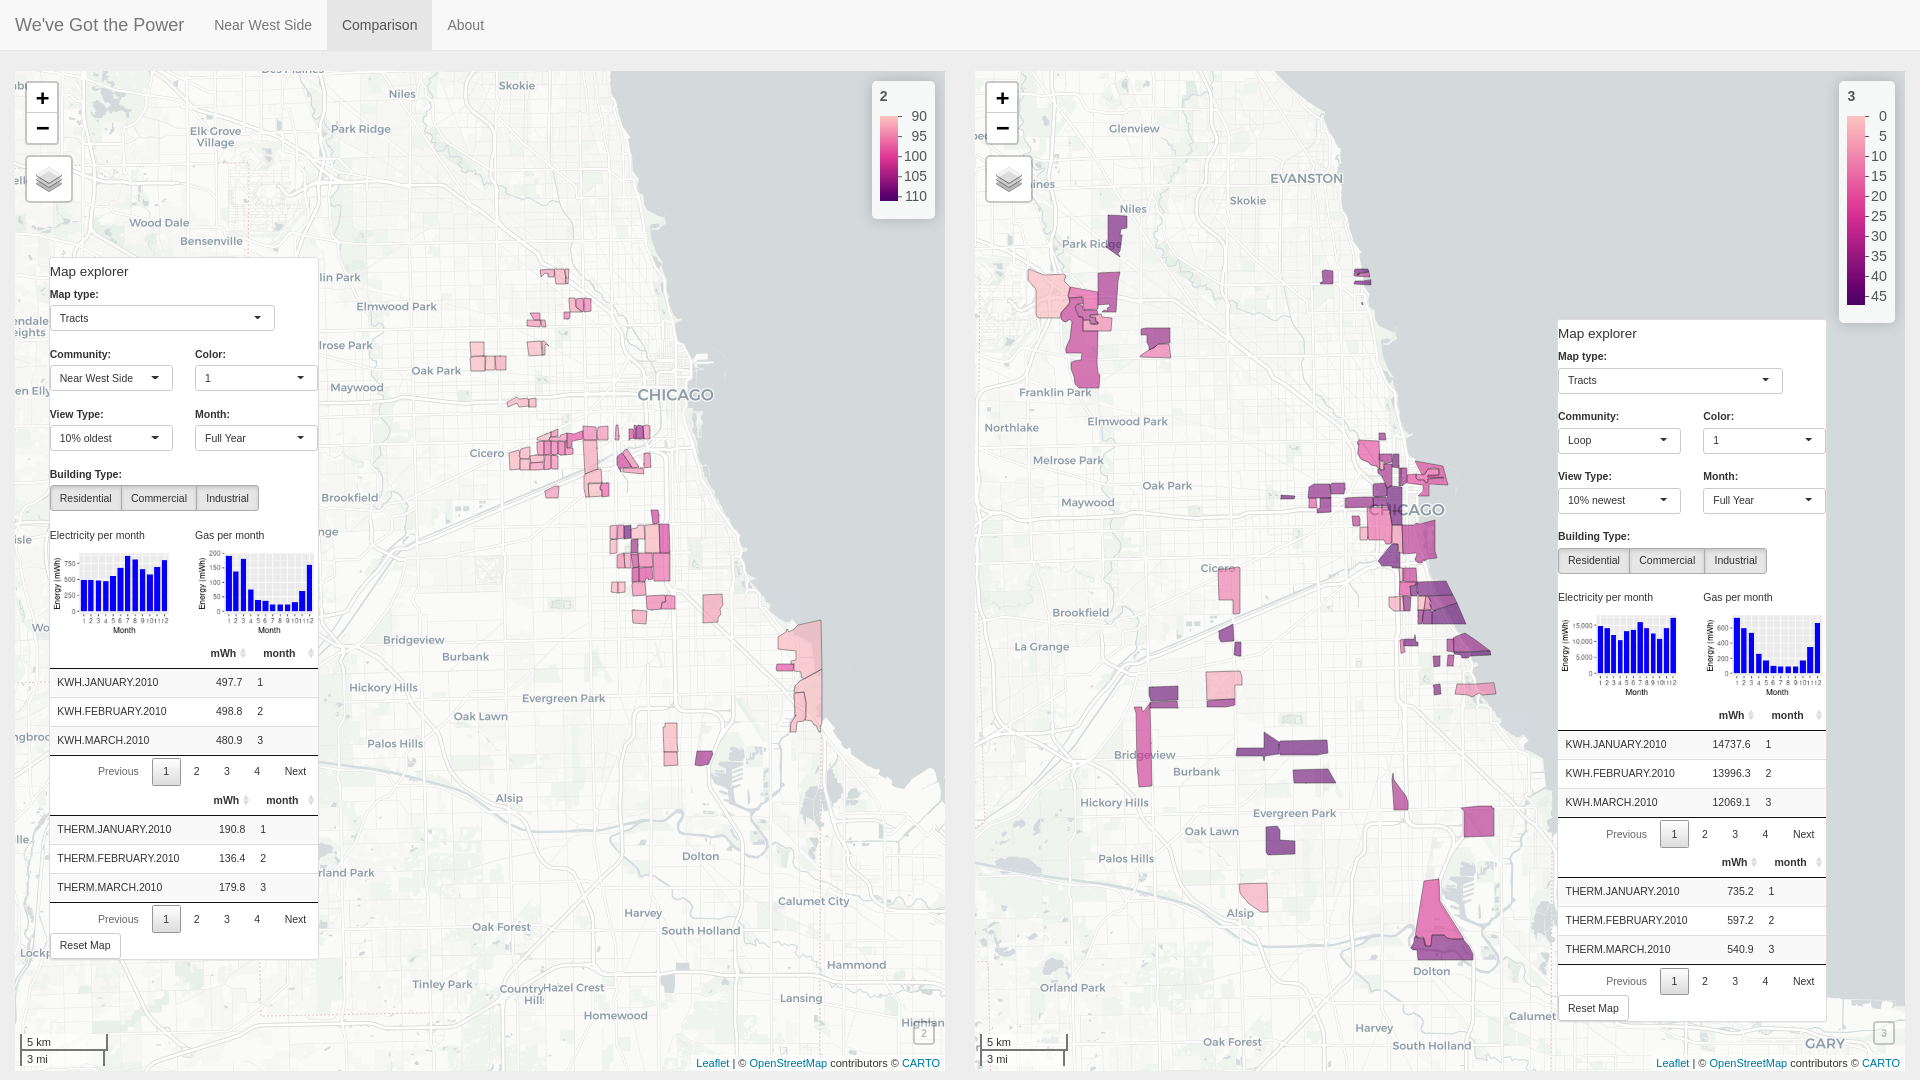
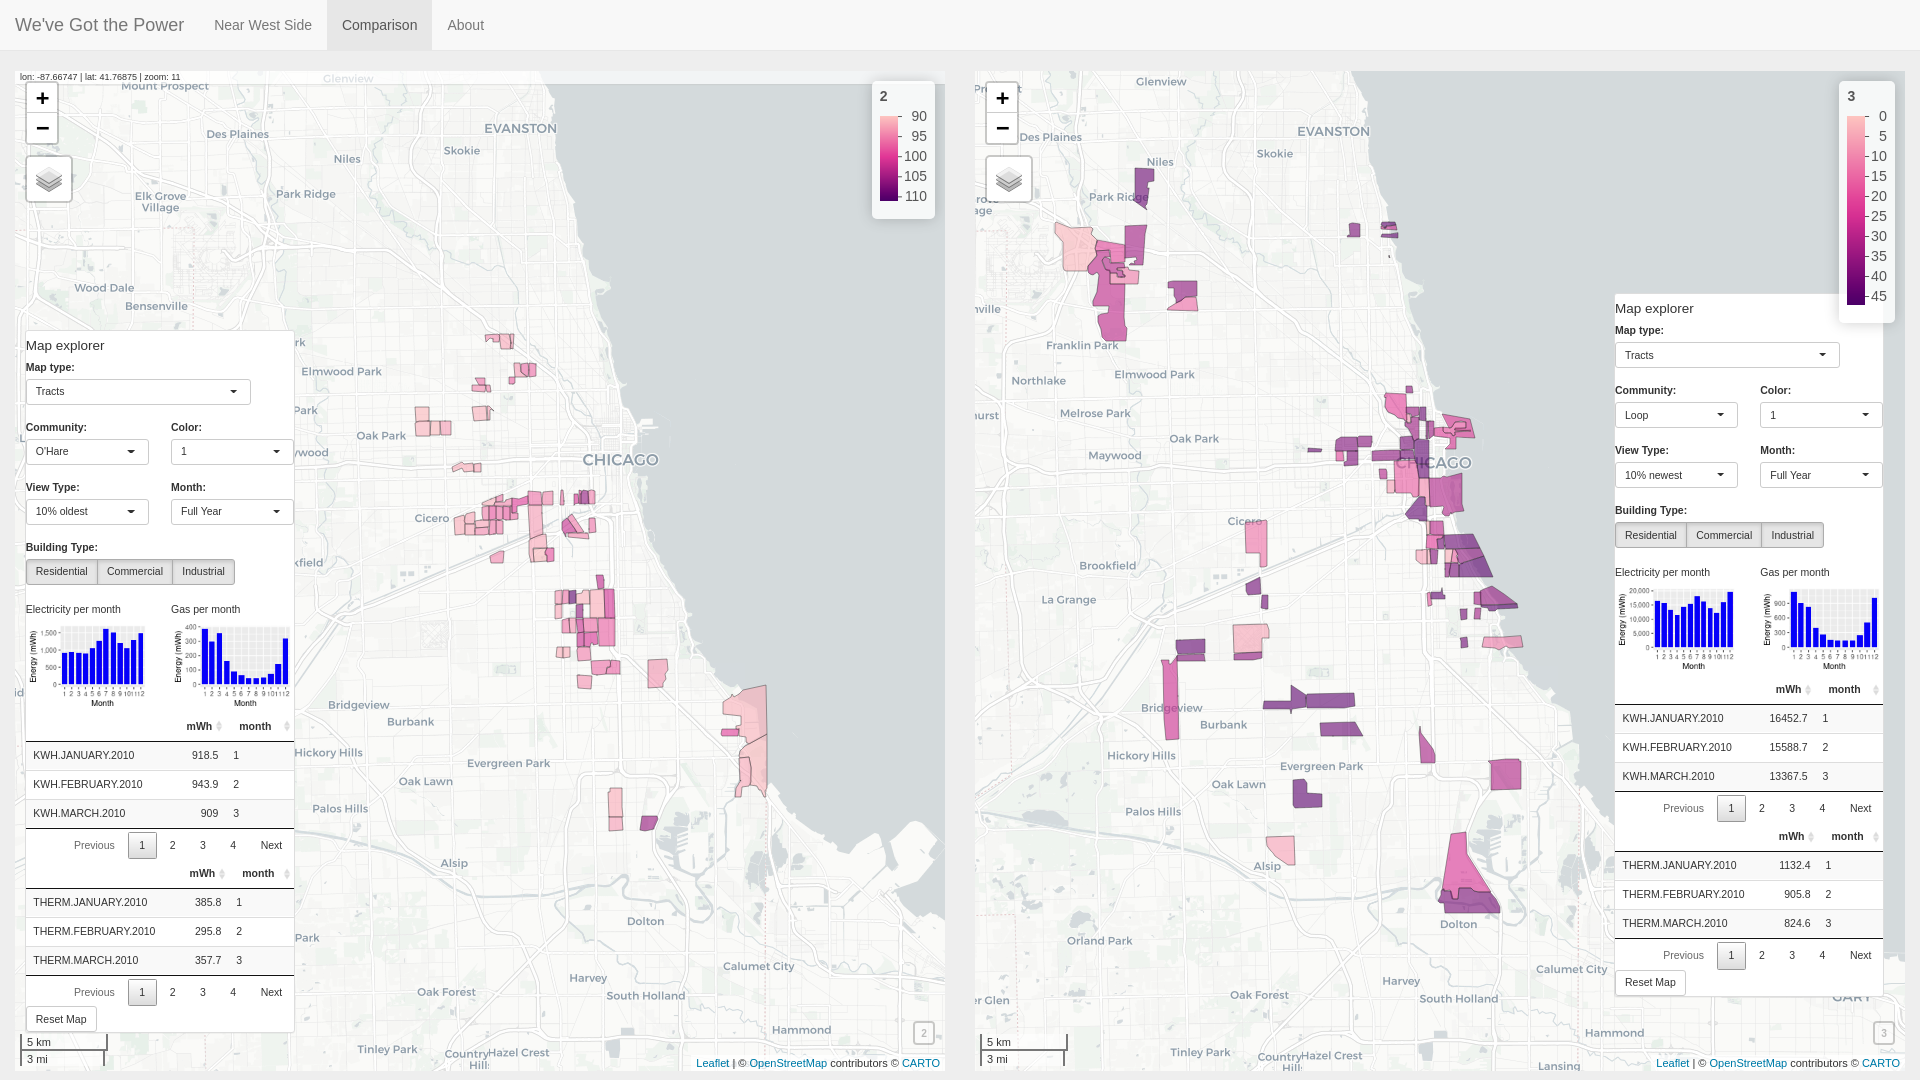
Project 3 docs

diff --git a/project3/docs/notes.html b/project3/docs/notes.html
@@ -36,7 +36,7 @@
 </p>
 
 <p style="text-align:center; border: 1px solid #eee;">
-  <img src="./f5.png" style="width:80%;" /><br>
+  <img src="./f5.png" style="width:100%;" /><br>
   Figure 2: Comparing migrant worker housing units near O'Hare Airport in Chicago, Illinois (left) and throughout Cook County (right).
 </p>
 
@@ -48,7 +48,7 @@
   The oldest residents appear to live on the outskirts of the county, while the youngest residents live closer to the center of the city (Figure 3).
 </p>
 <p style="text-align:center; border: 1px solid #eee;">
-  <img src="./f6.png" style="width:80%;" /><br>
+  <img src="./f6.png" style="width:100%;" /><br>
   Figure 3: Comparing top 10% oldest resident tracts (left) and top 10% youngest resident tracts (right). Older residents tend to live farther from the city, while younger residents live closer.
 </p>
 
@@ -56,7 +56,7 @@
   The tracts in Cook County with the lowest population appear to reliably fall in the southern part of the city, while the tracts with the highest population appear to reliably fall in northern part of the city (Figure 4).
 </p>
 <p style="text-align:center; border: 1px solid #eee;">
-  <img src="./f7.png" style="width:80%;" /><br>
+  <img src="./f7.png" style="width:100%;" /><br>
   Figure 4: Comparing 10 percent of tracts with lowest population (left) and 10 percent of tracts with highest population (right).
 </p>
 
@@ -64,7 +64,7 @@
   Tracts with high electricity use typically also have high gas use (Figure 5).
 </p>
 <p style="text-align:center; border: 1px solid #eee;">
-  <img src="./f8.png" style="width:80%;" /><br>
+  <img src="./f8.png" style="width:100%;" /><br>
   Figure 5: Comparing 10 percent of tracts with highest electricity use (left) and 10 percent of tracts with highest gas use (right).
 </p>
 
@@ -72,12 +72,16 @@
   Areas of the city with older buildings have far less energy usage than areas of the city with newer buildings (Figure 6). While gas usage tended to be around three times more per month in the parts of the city with the newest buildings, electricity usage tended to be around fifteen times more per month. Tracts with the oldest buildings were largely located in three distinct west-southern areas of the city.
 </p>
 <p style="text-align:center; border: 1px solid #eee;">
-  <img src="./f10.png" style="width:80%;" /><br>
+  <img src="./f10.png" style="width:100%;" /><br>
   Figure 6: Comparing 10 percent of tracts with oldest buildings (left) and 10 percent of tracts with newest buildings (right).
 </p>
 
 <p>
-  Data for building types appears to be rough-cut. For example, in the downtown loop area, little or few Census blocks are marked as residential. This is in spite of a number of corresponding downtown loop rows in the dataset marked as commercial which include residential data. Similarly, there are very few rows in the dataset containing Industrial building data.
+  Data for building types appears to be rough-cut. For example, in the downtown loop area, little or few Census blocks are marked as residential (Figure 7). This is in spite of a number of corresponding downtown loop rows in the dataset marked as commercial which include residential data. Similarly, there are very few rows in the dataset containing Industrial building data.
+</p>
+<p style="text-align:center; border: 1px solid #eee;">
+  <img src="./f12.png" style="width:100%;" /><br>
+  Figure 7: Comparing building type (left) and total population (right). The building type attribute appears to be haphazardly utilized. While there are many blocks in the Loop neighborhood which have residential population values, few blocks have the Residential building type attribute.
 </p>
 
 <p>
